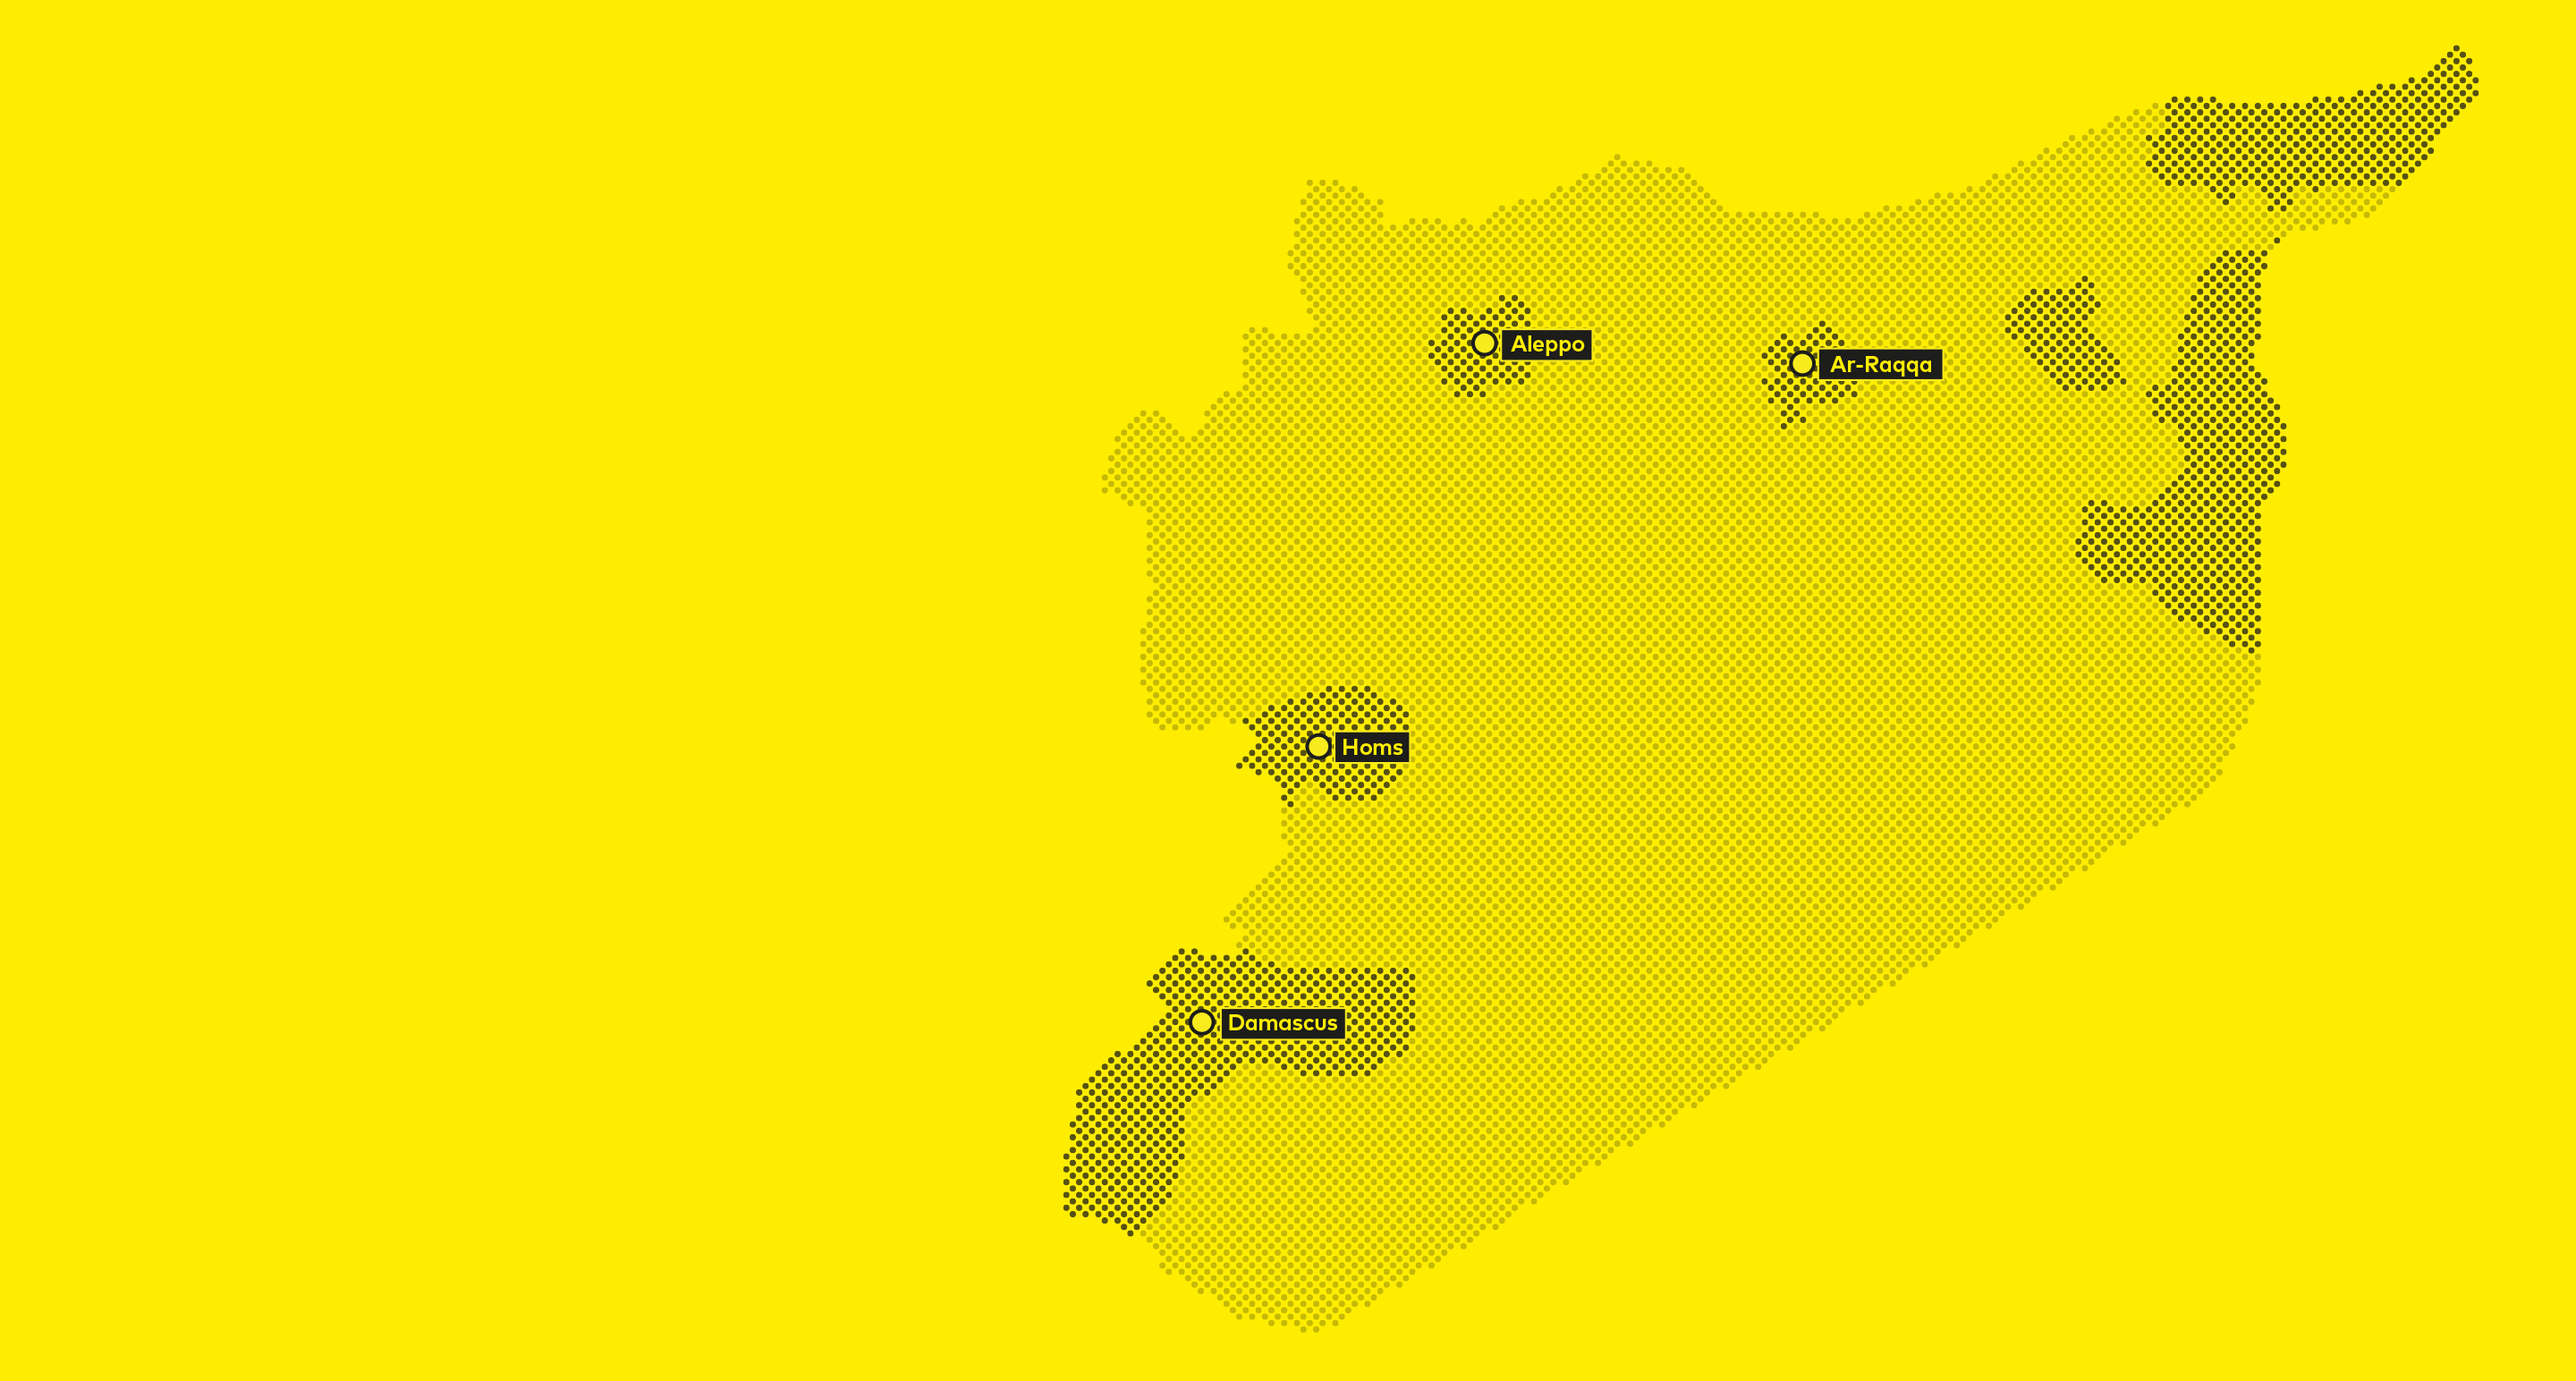
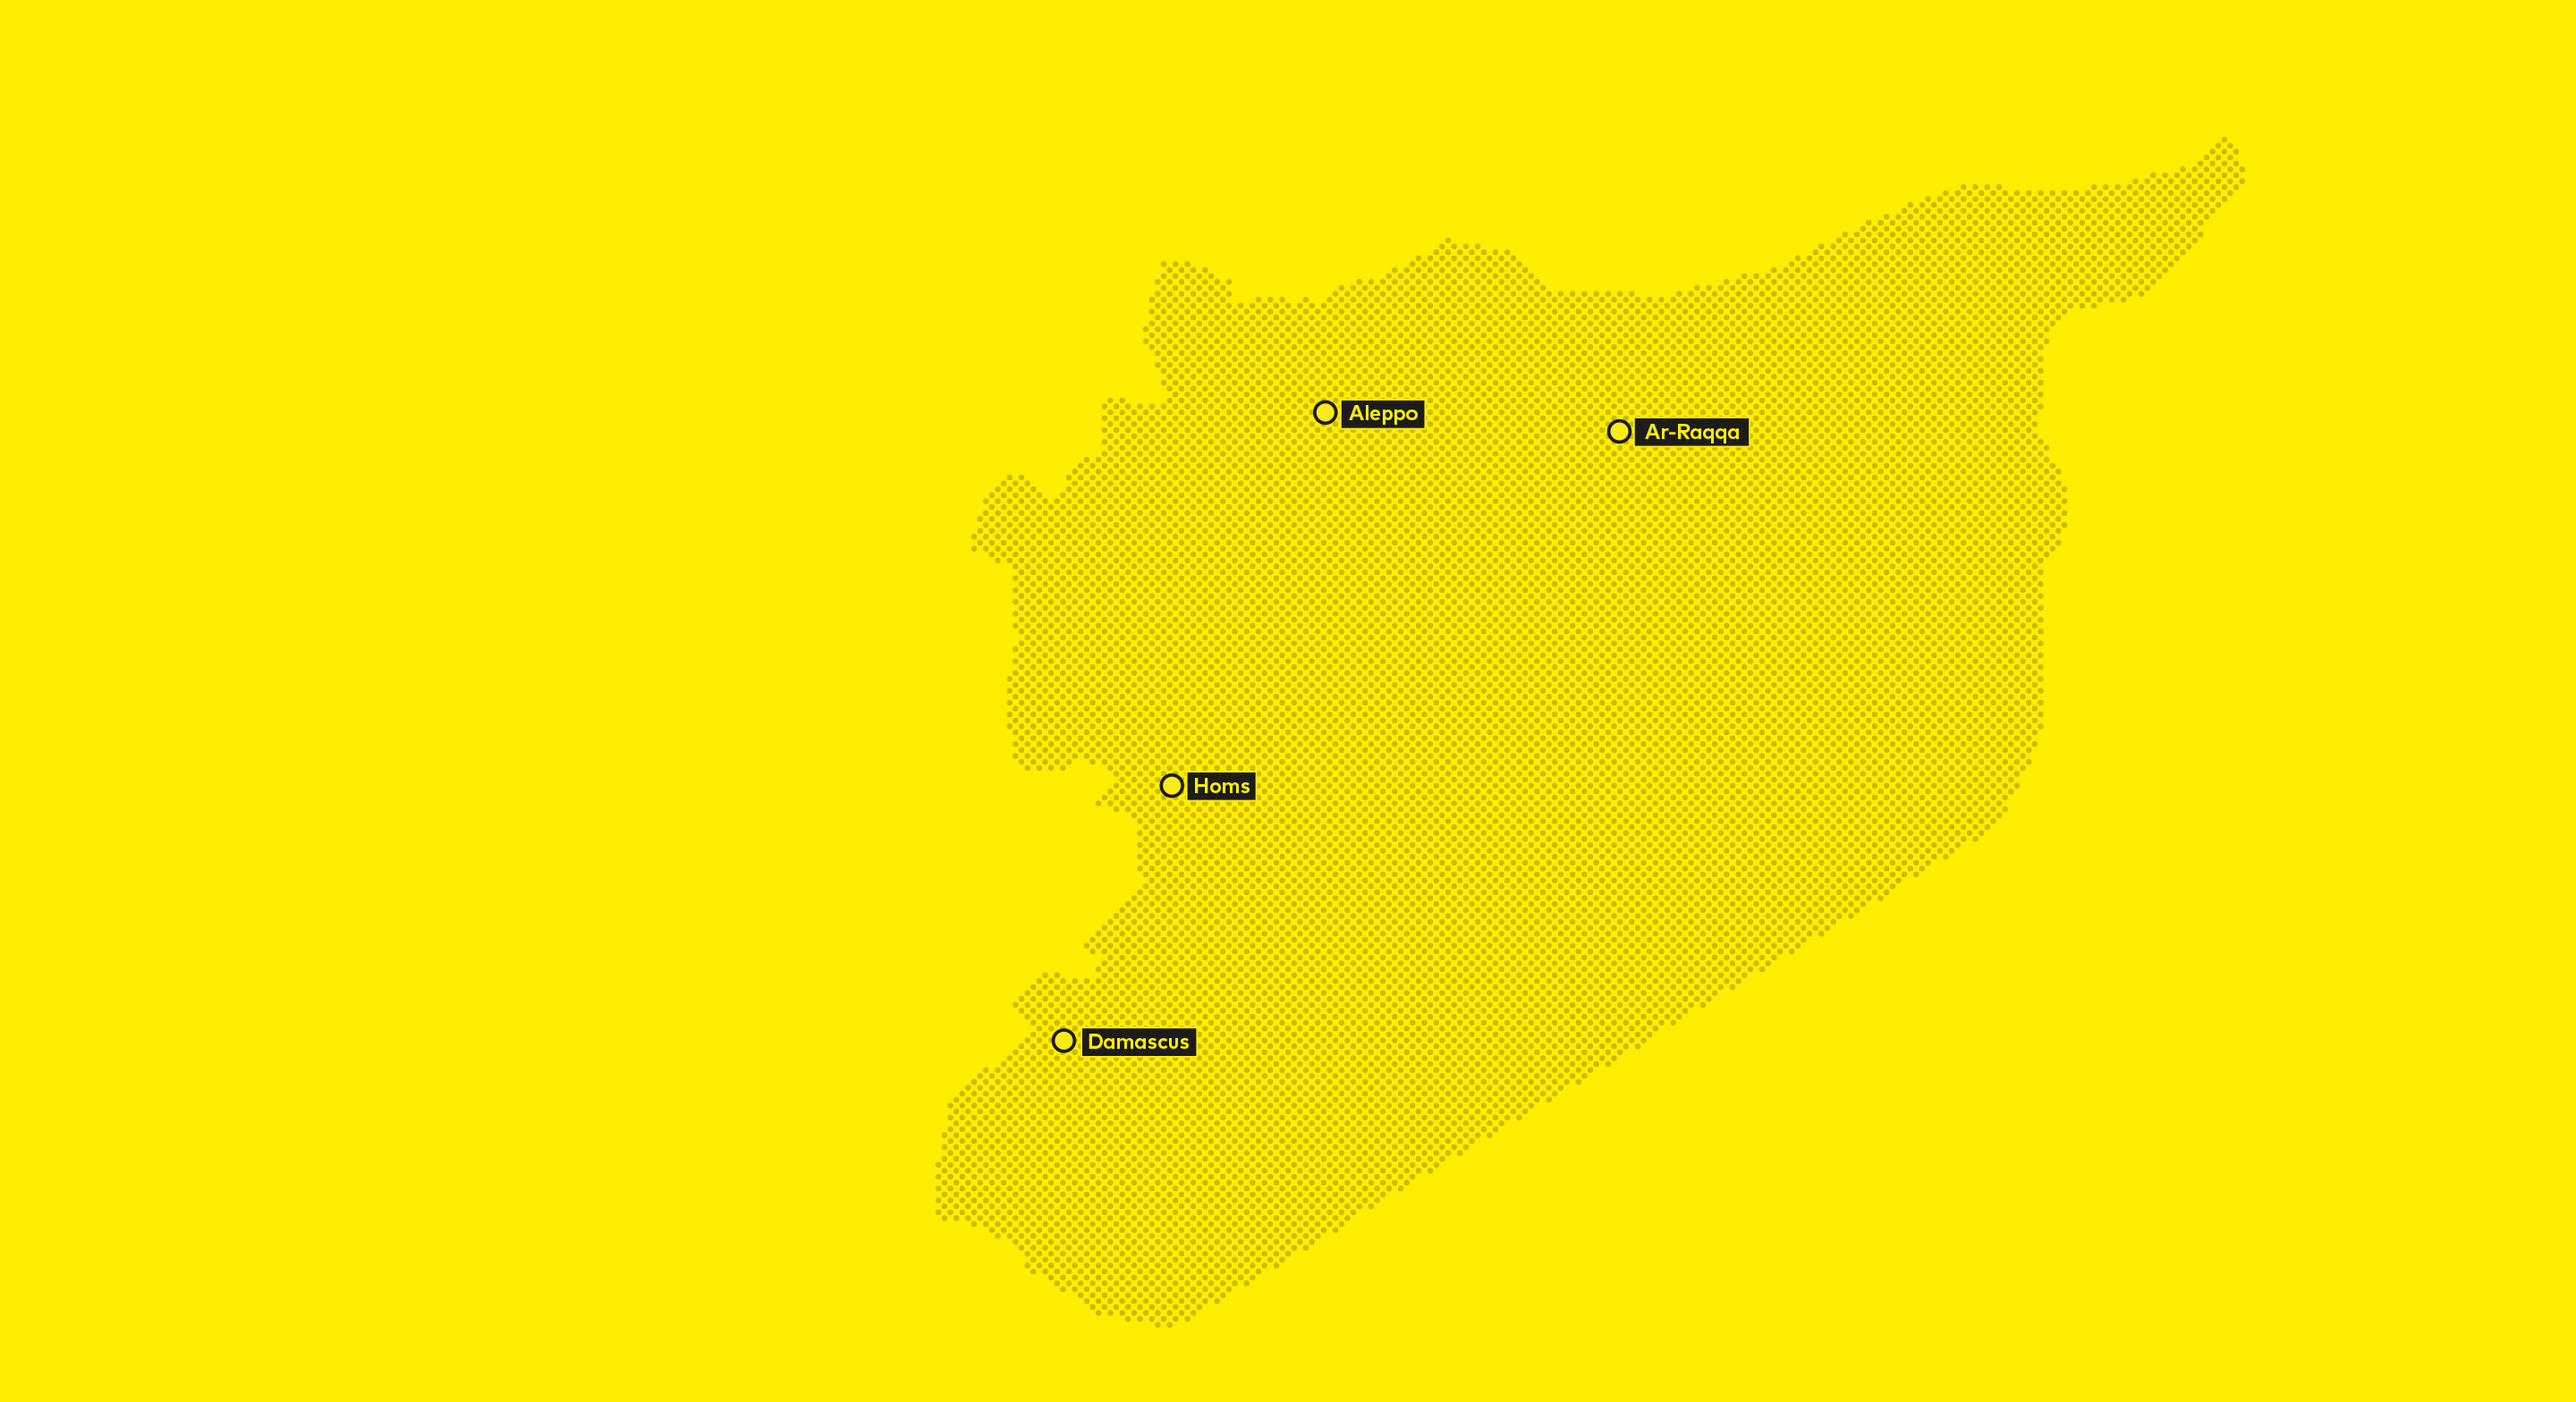
map changements - clean up interact map - style defined

Changed region(s): [[0.3438, 0.0311, 0.9688, 0.9637]]

diff --git a/index.html b/index.html
@@ -175,14 +175,13 @@
 
 
     <div class="page">
-      <div class="graph">
 
-
+      <div class="background-map">
+        <img src="img/background_map1.jpg">
       </div>
 
       <div class= "button_wrap_v1">
-
-          <div id="clickme-year2011" class="yearbutton">
+        <div id="clickme-year2011" class="yearbutton">
           2011
         </div>
         <div id="clickme-year2012" class="yearbutton">
@@ -193,16 +192,16 @@
         </div>
         <div id="clickme-year2014" class="yearbutton">
           2014
-        </div id="clickme-year2015" class="yearbutton">
+        </div>
+        <div id="clickme-year2015" class="yearbutton">
           2015
         </div>
-
       </div>
 
       <!-- <div id="interact_map" class="map"> -->
 
-        <svg class="graph" id="svg"  x="0px" y="0px"
-           width=80% height=70% viewBox="0 0 1000 707.077" enable-background="new 0 0 1000 707.077">
+        <svg id="svg"  x="0px" y="0px"
+           width=90% height=90% viewBox="0 0 1000 707.077" enable-background="new 0 0 1000 707.077">
 
               <polygon class="outline" id="outline_map"
                 points="505.674,647.756 818.156,460.521 839.663,406.121 840.927,318.829 854.844,302.383 854.844,269.49 835.868,237.862 847.253,179.667 902.917,170.812 950.992,105.026
@@ -220,6 +219,11 @@
                     <text transform="matrix(1.192488e-08 -1 1 1.192488e-08 990 109.9189)" fill="#FFED00" font-family="'Helvetica'" font-size="12">2011</text>
                     <text transform="matrix(1.192488e-08 -1 1 1.192488e-08 990 150)" fill="#FFED00" font-family="'Helvetica'" font-size="12">2012</text> -->
           </svg>
+
+          <div class="title-number-of-displacements">
+            Working title
+          </div>
+
         </div>
       <!-- </div> -->
 

diff --git a/stylesheets/stylesheet.css b/stylesheets/stylesheet.css
@@ -32,14 +32,6 @@ p {
   overflow: hidden;
 }
 
-.graph{
-  height: 100%;
-  width: 80%;
-  right: 0px;
-  left: 300px;
-
-}
-
 .button {
   cursor: pointer;
 }
@@ -416,7 +408,6 @@ p {
 /*------------------------------------------------------------- Interact_map ----*/
 .outline {
     fill: none;
-    stroke: #000000;
     stroke-width:3;
     stroke-miterlimit: 10;
 }
@@ -436,12 +427,10 @@ p {
 
 .yearbutton {
   height: 30px;
-  width: 200px;
+  width: 100px;
   background-color: black;
   color: white;
-  margin-left: auto;
-  margin-right: auto;
-  margin-top: 20px;
+  margin-bottom: 20px;
   text-align: center;
   padding-top: 12px;
   cursor: pointer;
@@ -455,43 +444,38 @@ p {
  transform: scale(1.05);
 }
 
-
-.pod-phase2 {
-  position: absolute;
-  width: 370px;
-  left: 70px;
-  margin-top: 400px;
-  opacity: 0;
-  transition: opacity 0.5s;
-  background-color: #FFED00;
-}
-
 .background-start-map {
   position: absolute;
 }
 
-
-
-
 .circle_idp {
-        stroke-width: 0;
-        fill: black;
-        opacity: 0.5;
-      }
+  stroke-width: 0;
+  fill: white;
+  opacity: 0.5;
+}
 
 .circle_dead {
-        stroke: red;
-        stroke-width: 0;
-        fill: red;
-        opacity: 0.5;
-        }
+  stroke: red;
+  stroke-width: 0;
+  fill: black;
+}
 
 .button_wrap_v1{
   position: absolute;
-  left: 0 px;
-  margin-top: 2px;
-  width: 220;
-  height: 780px;
-  padding: 15px;
+  left: 70px;
+  margin-top: 200px;
+  width: 100px;
+  height: 300px;
   color: black;
+}
+
+#svg {
+  position: absolute;
+  left: 150px;
+}
+
+.background-map {
+  position: absolute;
+  left: -90px;
+  margin-top: -10px;
 }
